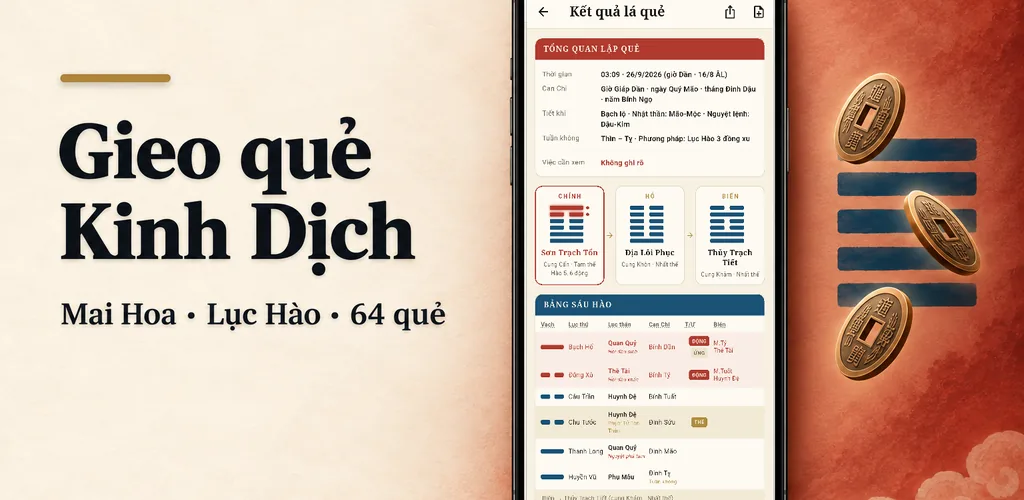
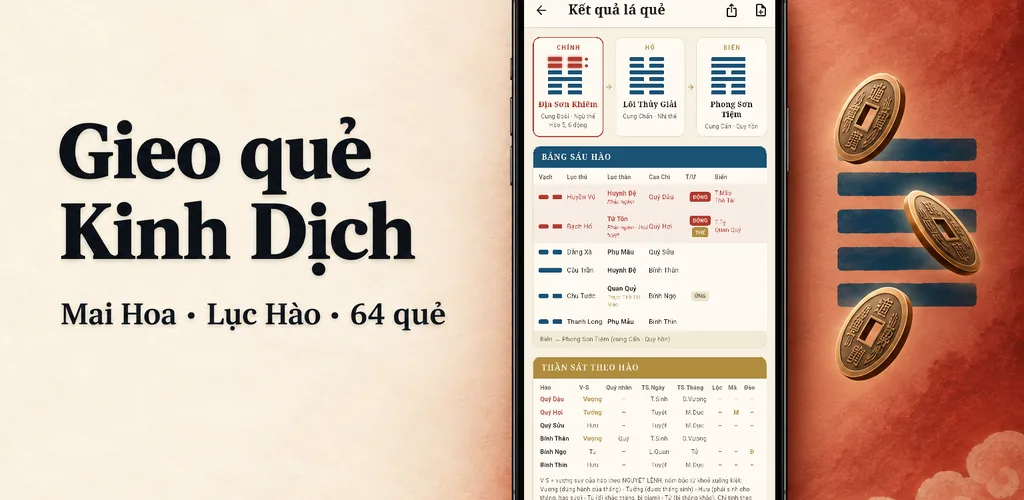
docs: drop unverified comparisons from Gieo Quẻ Kinh Dịch page, refresh share image
Remove the two claims about "many/most other apps" (no survey backs
them) and state only the verifiable calendar fact. Replace the og:image
with the new feature graphic showing the current app screen.

Claude-Session: https://claude.ai/code/session_01BmhDLoxUM4NywptfKAVESF

Changed region(s): [[0.5, 0.0, 0.7812, 1.0], [0.0625, 0.12, 0.1875, 0.18]]

diff --git a/apps/gieo-que-kinh-dich/index.html b/apps/gieo-que-kinh-dich/index.html
@@ -412,7 +412,6 @@
             <div class="bento-card area-overview">
                 <h2>Lá Quẻ Đầy Đủ, Không Cắt Bớt</h2>
                 <p style="color: var(--color-text-secondary); line-height: 1.7;">
-                    Phần lớn ứng dụng Kinh Dịch trên điện thoại dừng ở chỗ tra 64 quẻ rồi đưa một đoạn lời khuyên.
                     <strong>Gieo Quẻ Kinh Dịch - Lục Hào</strong> đi trọn đường an quẻ: nạp giáp, lục thân, lục thú,
                     thế ứng, phục thần, tuần không, vượng suy theo nguyệt lệnh và bảng thần sát từng hào.
                 </p>
@@ -567,8 +566,8 @@
 
                     <h3>Ngày âm tính theo múi giờ Việt Nam</h3>
                     <p>
-                        Nhiều ứng dụng dùng thư viện lịch âm của Trung Quốc ở múi giờ +8 nên lệch ngày ở một số mốc
-                        trong năm. Ứng dụng này tính ngày âm bằng thư viện lịch pháp tự viết, lấy múi giờ Việt Nam làm
+                        Lịch Việt và lịch Trung Quốc lệch nhau một ngày ở một số tháng.
+                        Ứng dụng này tính ngày âm bằng thư viện lịch pháp tự viết, lấy múi giờ Việt Nam làm
                         chuẩn — bởi gieo quẻ sai ngày thì mọi thứ phía sau đều sai theo.
                     </p>
 

diff --git a/PROGRESS.md b/PROGRESS.md
@@ -583,3 +583,8 @@
 - Verification: verify_pages.py --slug gieo-que-kinh-dich --package com.appmaven.gieoquekinhdich → PASS 0 cảnh báo; Chrome desktop 1920 + khung 390 px (iframe — cửa sổ không thu nhỏ được): không tràn ngang (374/386 px), console 0 lỗi.
 - Git: user cho đẩy cả việc tồn của Văn Khấn + Gieo Quẻ → push main gồm 26e854a (Gieo Quẻ 26/09), 2734148 + 0092d24 (log Văn Khấn) và commit này.
 - URL khai AdMob / Play Console: https://appmavenstudio.com/apps/gieo-que-kinh-dich/privacy-policy.html
+
+### [2026-09-28 16:5x] Claude Code
+- Task: Gieo Quẻ Kinh Dịch — gỡ 2 câu so sánh với "nhiều/phần lớn ứng dụng" khác (không có bằng chứng; rủi ro Google Play Metadata "Data comparison of apps or brands" + Luật Quảng cáo sửa đổi 2025 Điều 8 khoản 10) và thay ảnh xem trước khi chia sẻ link. User: "đẩy lên" + chọn bỏ luôn câu thứ 2.
+- Files: apps/gieo-que-kinh-dich/index.html; assets/images/apps/gieo-que-kinh-dich/feature.webp (to_webp.py từ StoreAssets/feature-graphic-1024x500.png: 630 KB → 46 KB).
+- Verification: verify_pages.py --slug gieo-que-kinh-dich --package com.appmaven.gieoquekinhdich → PASS 0 cảnh báo; Chrome desktop + khung 390 px: không cuộn ngang (374/386, chỉ dải ảnh chụp cuộn ngang theo thiết kế), console 0 lỗi; trang không còn "Nhiều ứng dụng"/"Phần lớn ứng dụng".

diff --git a/TASK.md b/TASK.md
@@ -477,3 +477,8 @@
 - [x] terms-of-service.html: mục 5 mới (mua trong ứng dụng, giá do Google Play, hoàn tiền theo chính sách Google Play, khôi phục, thu hồi khi hoàn tiền); đánh lại số mục 6–9
 - [x] index.html: FAQ "Dữ liệu của tôi nằm ở đâu" nhắc gói Pro; sitemap lastmod 3 trang → 2026-09-28
 - [x] User nói "đăng thay đổi trên trang web" + "đẩy luôn cả văn khấn và gieo quẻ" (28/09) → đẩy kèm 2 commit log Văn Khấn (2734148, 0092d24) và commit Gieo Quẻ 26/09 (26e854a)
+
+### [2026-09-28 16:5x] Claude Code — Gieo Quẻ Kinh Dịch: bỏ câu so sánh với app khác + ảnh xem trước mới
+- [x] index.html: bỏ "Nhiều ứng dụng dùng thư viện lịch âm của Trung Quốc…" → "Lịch Việt và lịch Trung Quốc lệch nhau một ngày ở một số tháng." (user chọn B)
+- [x] index.html: bỏ câu "Phần lớn ứng dụng Kinh Dịch trên điện thoại dừng ở chỗ tra 64 quẻ…" (user chọn bỏ) — không có khảo sát chứng minh
+- [x] assets/images/apps/gieo-que-kinh-dich/feature.webp (og:image) = ảnh bìa mới 28/09 (màn app hiện tại, không gạch vàng)
